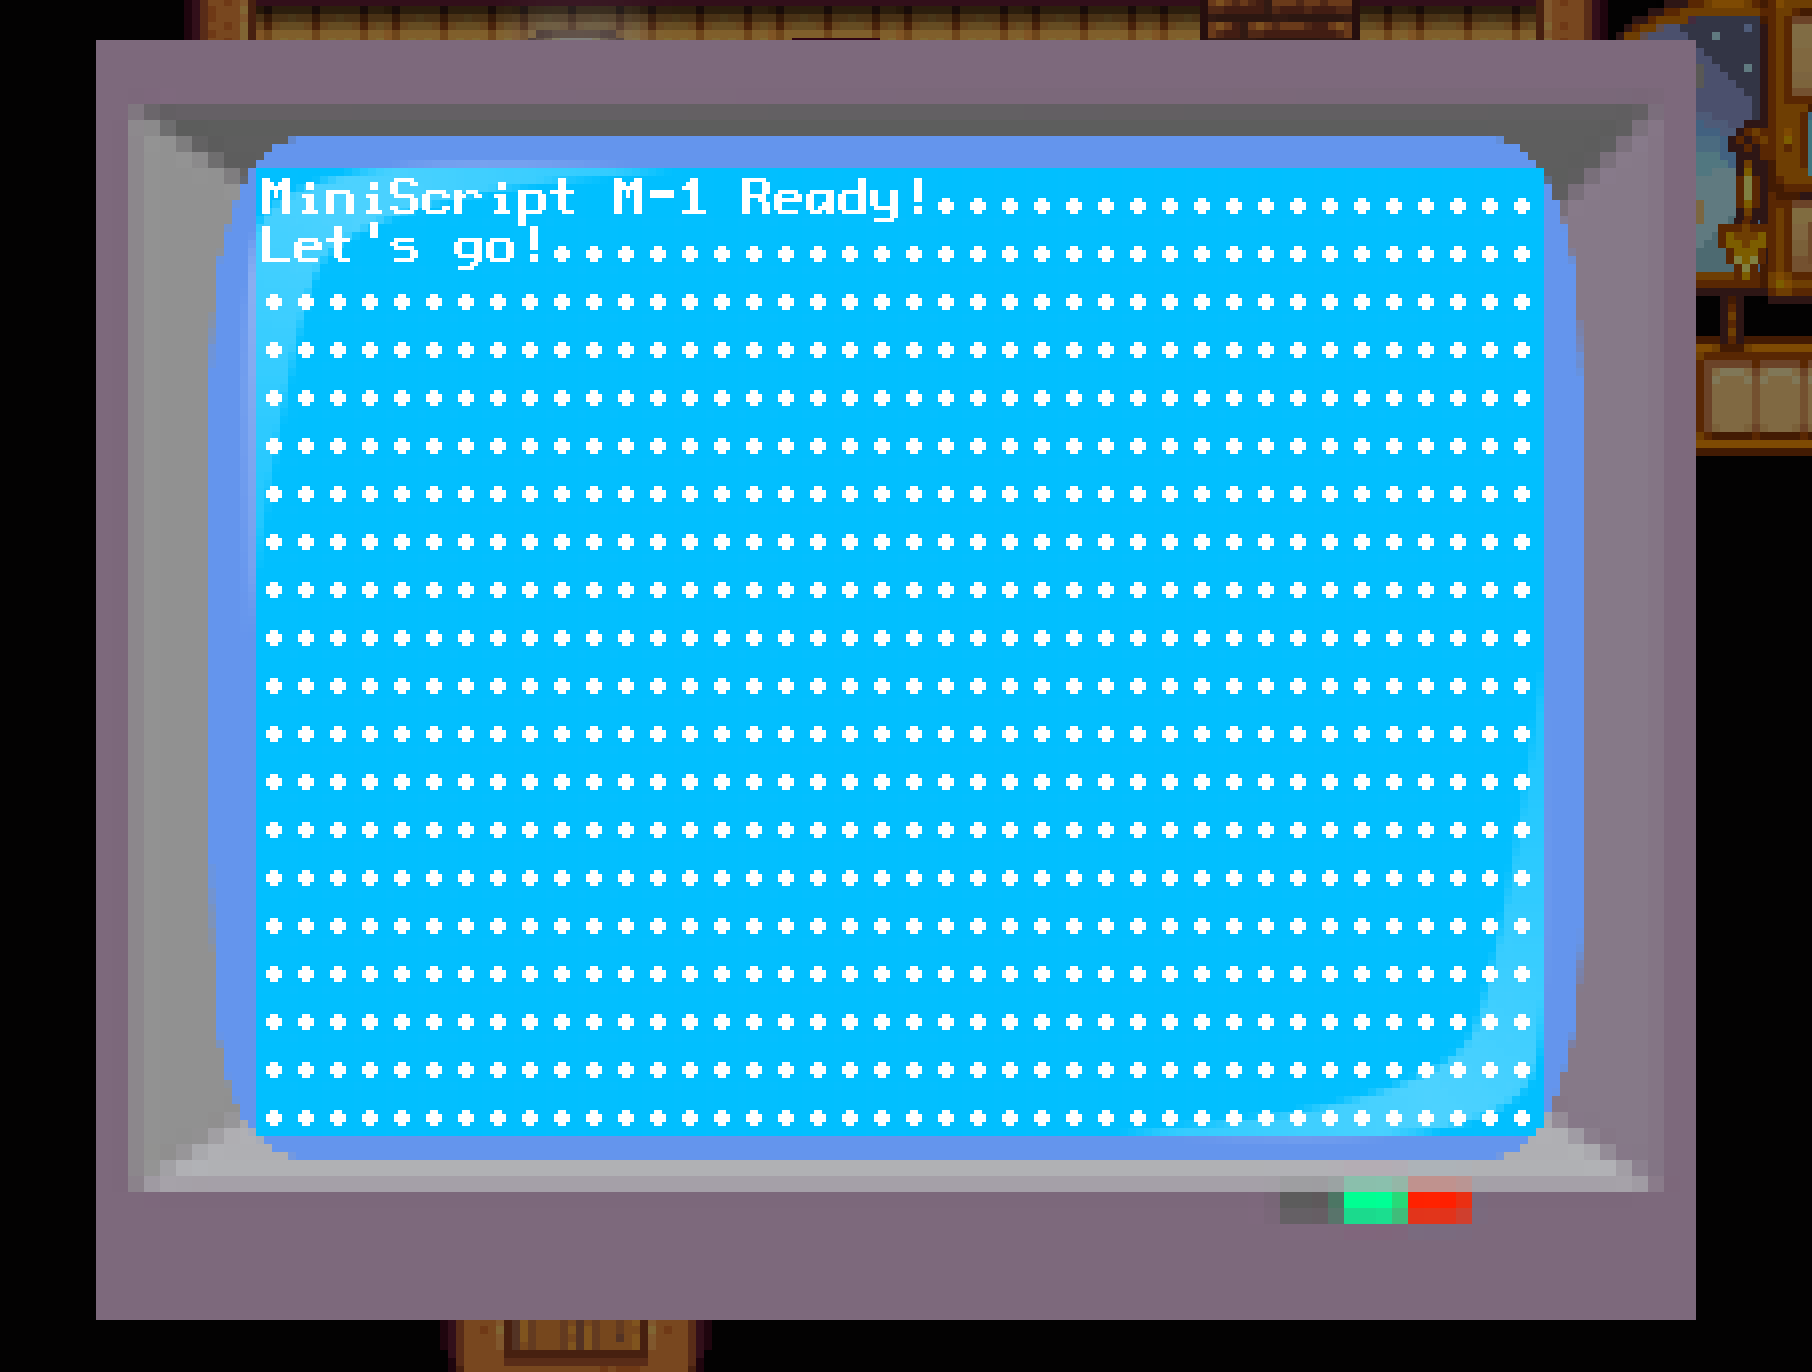
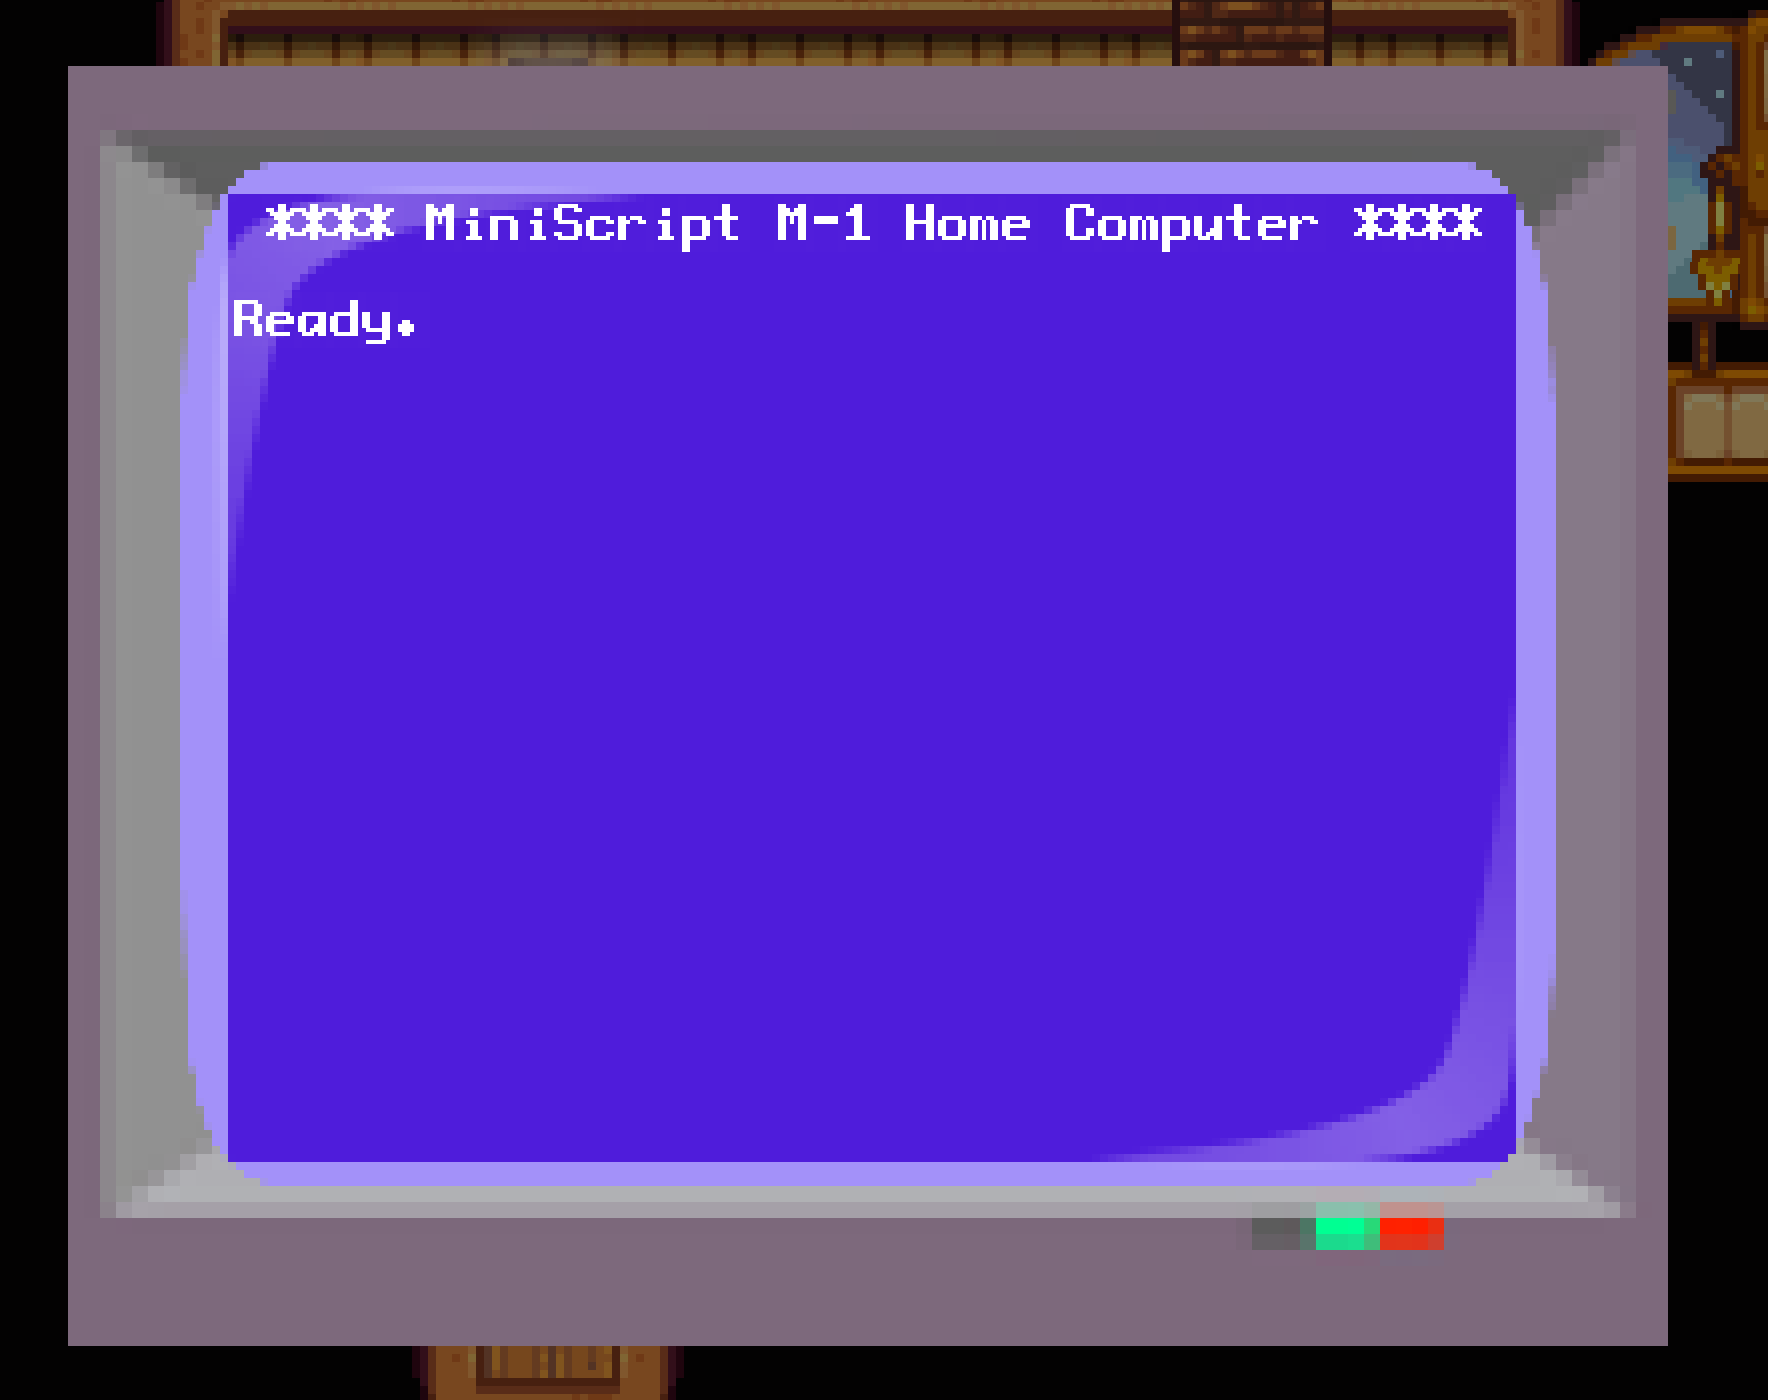
Tweaked colors and initial text.

diff --git a/M1/Console.cs b/M1/Console.cs
@@ -35,9 +35,11 @@ namespace M1 {
 			screenSrcR = new Rectangle(0, 0, 200, 160);
 
 			textDisplay = new TextDisplay();
+			textDisplay.backColor = new Color(0.31f, 0.11f, 0.86f);
 			textDisplay.SetCursor(19, 0);
-			textDisplay.PrintLine("MiniScript M-1 Ready!");
-			textDisplay.PrintLine("Let's go!");
+			textDisplay.PrintLine(" **** MiniScript M-1 Home Computer ****");
+			textDisplay.NextLine();
+			textDisplay.PrintLine("Ready.");
 		}
 
 		private void Exit() {
@@ -87,10 +89,10 @@ namespace M1 {
 			// draw the screen background
 			
 			b.Draw(screenLayers[0], new Vector2(xPositionOnScreen , yPositionOnScreen), screenSrcR,
-				Color.CornflowerBlue,
+				new Color(0.64f, 0.57f, 0.98f),
 				0, Vector2.Zero, drawScale, SpriteEffects.None, 0.5f);
 			b.Draw(screenLayers[1], new Vector2(xPositionOnScreen , yPositionOnScreen), screenSrcR,
-				Color.DeepSkyBlue,
+				textDisplay.backColor,
 				0, Vector2.Zero, drawScale, SpriteEffects.None, 0.5f);
 			
 			// draw content

diff --git a/M1/TextDisplay.cs b/M1/TextDisplay.cs
@@ -75,7 +75,7 @@ namespace M1 {
 					cells[row, col] = new Cell(textColor, backColor);
 				}
 			}
-			Fill('.');
+			
 
 			fontAtlas = ModEntry.helper.Content.Load<Texture2D>("assets/fontAtlas.png");
 			ModEntry.instance.print($"Loaded fontAtlas with size {fontAtlas.Width}x{fontAtlas.Height}");
